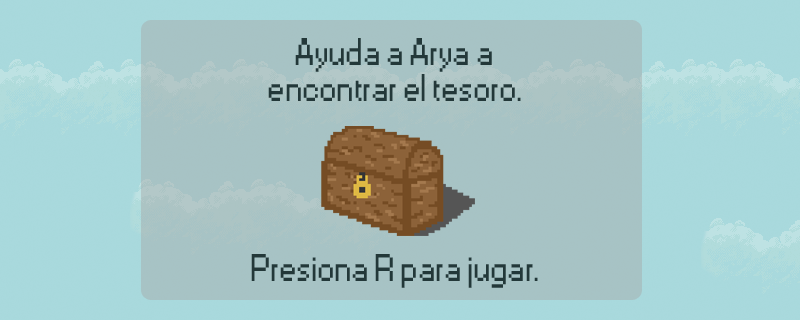
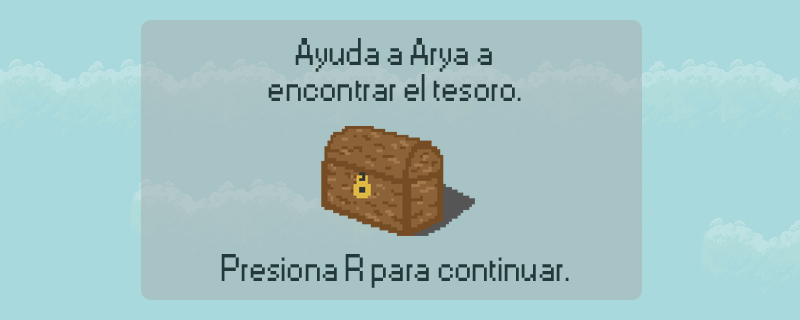
Add instruction in game

Changed region(s): [[0.25, 0.7812, 0.7188, 0.9062]]

diff --git a/game/instrucciones.html b/game/instrucciones.html
@@ -100,6 +100,7 @@
                             <br>
                             <br>
                             <p>Tendrás que desplazarte por el mapa hasta encontrar la cueva que lleva al tesoro.</p>
+                            <p>Evita la hiedra venenosa.</p>
                         </div>
                     </div>
                 </div>
@@ -130,6 +131,7 @@
                                         <li><a href="http://phaser.io/examples/v2/category/tilemaps">Phaser Examples</a></li>
                                         <li><a href="http://piq.codeus.net/static/media/userpics/piq_67962_400x400.png">Galleta</a></li>
                                         <li><a href="http://i.imgur.com/0R9XfOi.gif">Tesoro</a></li>
+                                        <li><a href="http://piq.codeus.net/static/media/userpics/piq_342440_400x400.png">Hiedra venenosa</a></li>
                                         <li><a href="https://www.patreon.com/ansimuz">Fondo del juego</a></li>
                                     </ul>
                                 </li>

diff --git a/game/index.html b/game/index.html
@@ -19,7 +19,7 @@
 
     <!-- Google Fonts: Fuentes usadas en el sitio web -->
     <link href='https://fonts.googleapis.com/css?family=Slabo+27px' rel='stylesheet' type='text/css'>
-    <link href='https://fonts.googleapis.com/css?family=Pacifico' rel='stylesheet' type='text/css'> s
+    <link href='https://fonts.googleapis.com/css?family=Pacifico' rel='stylesheet' type='text/css'>
     <!-- Libreria Phaser -->
     <script type="text/javascript" src="phaser/phaser.min.js"></script>
 
@@ -28,6 +28,7 @@
     <script type="text/javascript" src="game/loose.js"></script>
     <script type="text/javascript" src="game/end.js"></script>
     <script type="text/javascript" src="game/play.js"></script>
+    <script type="text/javascript" src="game/poison.js"></script>
     <script type="text/javascript" src="game/menu.js"></script>
     <script type="text/javascript" src="game/initGame.js"></script>
     <meta name="viewport" content="width=device-width, initial-scale=1">

diff --git a/game/game/poison.js b/game/game/poison.js
@@ -1,7 +1,7 @@
-var menu = {
+var poison = {
     // Cargar imagen de fondo
     preload: function () {
-        game.load.image('background', 'resources/menuMessage.png');
+        game.load.image('background', 'resources/poisonMessage.png');
     },
 
     create: function () {
@@ -15,6 +15,6 @@ var menu = {
     },
 
     start: function () {
-        game.state.start('poison');
+        game.state.start('play');
     }
 }

diff --git a/game/game/initGame.js b/game/game/initGame.js
@@ -3,6 +3,7 @@ var game = new Phaser.Game(800, 320, Phaser.AUTO, 'game');
 
 // Se crean los estados del juego
 game.state.add('menu', menu);
+game.state.add('poison', poison);
 game.state.add('play', play);
 game.state.add('end', end);
 game.state.add('loose', loose);
